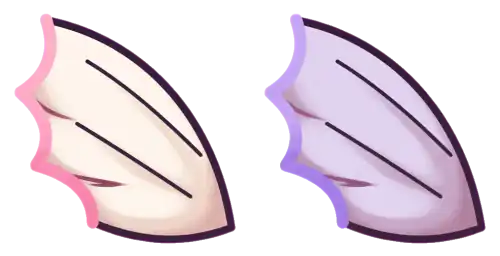
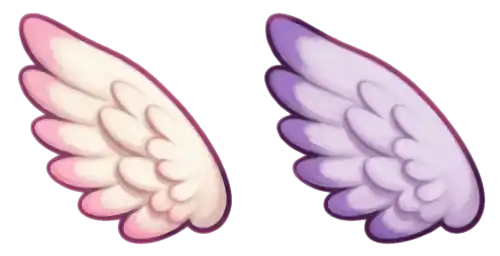
Each hat its own mount; feathered worn wings matching their badge
- HEAD_ITEM_FITS names every hat: the flower crown keeps the common seat,
  the tiara and goggles sit a little further toward the horn, the acorn cap
  sits on the crown between ear and horn, tilted toward her face.
- The worn pegasus wing was a trace of the vector wing; repainted as the
  feathered wing the wardrobe badge shows, registered onto the old box so it
  roots where it did.
- The tent preloads every shelf keepsake's worn painting, so a first try-on
  no longer shows the vector stand-in.

Claude-Session: https://claude.ai/code/session_01PRzLhtVufhmYy5sgEqZxSc

diff --git a/src/game/duel/chars.ts b/src/game/duel/chars.ts
@@ -277,13 +277,18 @@ const MASCOT_NECK = {
   poll: [(304 - 230) / 2.36, (195 - 436.2) / 2.36]
 } as const
 /**
- * An item's own seat on the painted head, where the common fit is not enough:
- * the Acorn Cap sits on the crown behind the horn, a little higher and further
- * back than the common fit, so its brim cuts the skull with the near ear
- * showing — further back still, it hung off the back of her head.
+ * EACH HAT'S OWN MOUNT on the painted head (owner, 2026-09-27: "make separate
+ * mounting points for each hat accessory"), head space → head space, over the
+ * common fit's scale: the Flower Crown rests on the fringe as the common fit
+ * seats it; the Star Tiara and the Explorer Goggles sit a little further
+ * toward the horn; the Acorn Cap sits on the crown between the near ear and
+ * the horn, tilted a little toward her face, its brim on the hair.
  */
 const HEAD_ITEM_FITS: Record<string, readonly number[]> = {
-  acornCap: [1.06, 0, 0, 1.06, -2, -6.5]
+  flowerCrown: [1.06, 0, 0, 1.06, 0.5, -4.5],
+  starTiara: [1.06, 0, 0, 1.06, 3, -4.5],
+  explorerGoggles: [1.06, 0, 0, 1.06, 3, -4.5],
+  acornCap: [1.0429, 0.1898, -0.1898, 1.0429, 1, -2.5]
 }
 /** Tuning seam: the head items' fit on the painted head (one item's, with `slug`). */
 export const __headItemsFit = (m: readonly number[], slug?: string): void => {

diff --git a/src/game/artSchedule.ts b/src/game/artSchedule.ts
@@ -471,7 +471,14 @@ export const wardrobeWants = (save: ScheduleSave, env: ScheduleEnv): ArtWant[] =
   }
   // She stands in the middle of it in what she has on. The shelf's rewarded
   // unlocks wear the movie camera.
-  return [['wardrobe', wardrobeArtId(env.portrait)], item(WARDROBE_RUG), ...RIG, ...wornStills(save), ...shelf, item(MOVIE_ICON)]
+  // …and what each of them looks like WORN: a keepsake with a badge of its own
+  // (the pegasus wings) is tried on as its worn painting, which the badge is
+  // not — without it the first try-on drew the vector stand-in, then popped.
+  const worn: ArtWant[] = []
+  for (let id = 0; id < COSMETICS.length; id++) {
+    if (((save.giftsOwned >> id) & 1) === 1 || ALTERNATIVES.includes(id)) worn.push(...wornArt(COSMETICS[id]?.slug))
+  }
+  return [['wardrobe', wardrobeArtId(env.portrait)], item(WARDROBE_RUG), ...RIG, ...wornStills(save), ...shelf, ...worn, item(MOVIE_ICON)]
 }
 
 /** A node's DIALOGUE: printed on its chapter's page, with its speakers' faces. */

diff --git a/art-roadmap.md b/art-roadmap.md
@@ -2351,6 +2351,27 @@ screen viewports", "the coloured skins have some artifacts in the hair").**
   decoded falls back to the old piece puppet (near-black on the Umbra skin) —
   wait for `framesOn(dress)` per outfit.
 
+**Each hat its own mount; the wings repainted (owner, 2026-09-27: "make separate
+mounting points for each hat accessory"; "the preview image shows painted
+wings, but the model gets the drawn wings attached — fix it everywhere").**
+
+- `chars.HEAD_ITEM_FITS` now names every hat: the Flower Crown keeps the common
+  seat (on the fringe), the Star Tiara and the Explorer Goggles sit 2.5 units
+  further toward the horn, the Acorn Cap sits on the crown between the near ear
+  and the horn, tilted 0.18 rad toward her face, its brim on the hair.
+- The worn pegasus wing (`images/cosmetics/pegasus-wing.webp`) was a painted
+  TRACE of the vector wing — a flat shield with two drawn strokes — while the
+  shelf badge (`keepsake-pegasus-wings`) shows fluffy feathered wings. Repainted
+  as a Gemini EDIT of the old two-panel return with the badge as the design
+  ("repaint both wings as the feathered wing of image 1 … the same place, the
+  same size, rooted at the lower right"), so the slicer registered it onto the
+  old box (93 %, 1 % shift) and the wing roots where it did. The old return is
+  kept in the scratchpad. The seashell necklace and the winter scarf were
+  checked the same way: their worn pieces already match their badges.
+- The tent now preloads the WORN painting of every keepsake on its shelf, not
+  only its badge: trying on the wings the first time drew the vector stand-in
+  until the painting decoded.
+
 ## 2026-09-25 — the traced pictograms and props, re-rolled
 
 The owner read chapter 4's crystal pictogram as "not painted yet": it was
